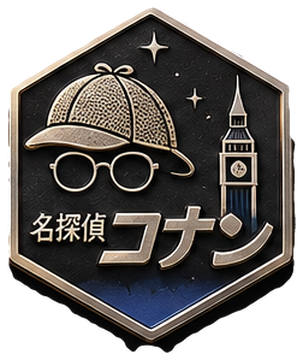
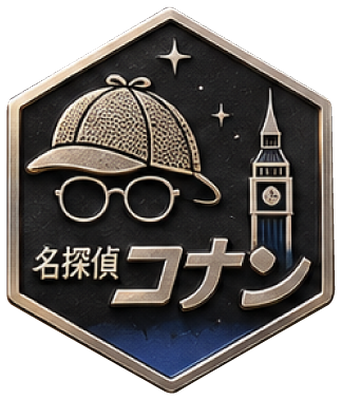
Badges: replace 13 with clean transparent PNGs from user
Claude-Session: https://claude.ai/code/session_01VUAiFWXURucbTkjgtRgDUq

diff --git a/index.html b/index.html
@@ -1169,7 +1169,7 @@ const work=sp=>WORKS[sp.work];
 
 /* ================= HELPERS ================= */
 /* 포스터 이미지: assets/posters/<장소id>.jpg 를 넣으면 자동으로 표시, 없으면 만화 패널 그래픽 */
-const ASSET_V='2611187';   // 이미지 교체 시 올려 주면 브라우저에 남은 예전 이미지를 쓰지 않아요
+const ASSET_V='2611188';   // 이미지 교체 시 올려 주면 브라우저에 남은 예전 이미지를 쓰지 않아요
 const poster=(sp,dir='posters',src)=>`<img class="poster" alt="" src="assets/${dir}/${src||sp.id}.jpg?v=${ASSET_V}" onload="this.parentNode.classList.add('has-img')" onerror="this.parentNode.classList.remove('has-img');this.remove()">`;
 const PALS=[['#ffe3a3','#ff9f7a','#6a5ad8','rgba(40,25,70,.5)'],['#c9ecff','#6cbcf5','#2a6fd6','rgba(10,40,90,.5)'],['#ffd6e7','#f59bc4','#8a5ad6','rgba(60,20,70,.5)'],['#d7f7e4','#7fd6b0','#2a8f9c','rgba(10,60,60,.5)'],['#fff1c4','#ffc56b','#e86a4a','rgba(80,30,20,.5)']];
 const ph=(label,h=160,extra='',center='')=>{const k=[...(label+h)].reduce((a,c)=>a+c.charCodeAt(0),0)%PALS.length,p=PALS[k];return`<div class="ph cart" style="height:${h}px;--c1:${p[0]};--c2:${p[1]};--c3:${p[2]};--c4:${p[3]};${extra}"><div class="gr"></div>${center?`<div class="x">${center}</div>`:''}${label?`<span class="lb">${label}</span>`:''}</div>`};
